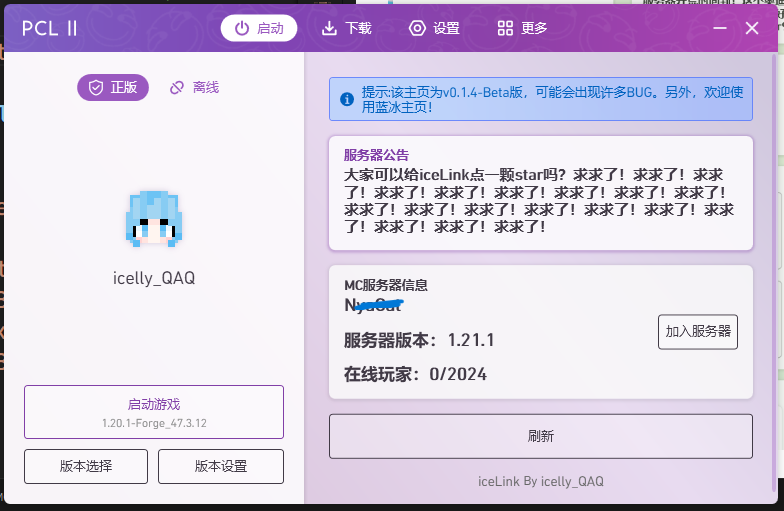
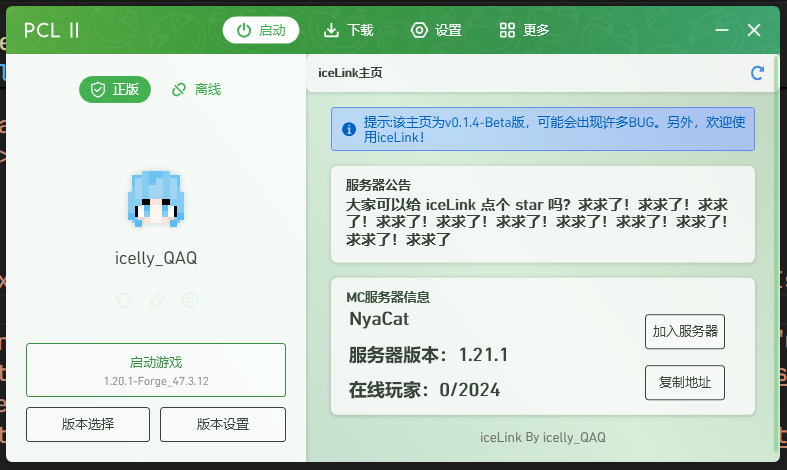
v0.1.5
修改布局

diff --git a/app.js b/app.js
@@ -244,6 +244,52 @@ let serverInfo_xml = '';
         
         // 使用模板字符串构建XML，使用API返回的数据
         const xml = `
+<StackPanel.Resources>
+    <SolidColorBrush x:Key="IconBrush" Color="#4A90E2"/>
+    
+    <Style x:Key="AnimatedPathStyle" TargetType="Path">
+        <Setter Property="RenderTransformOrigin" Value="0.5,0.5"/>
+        <Setter Property="RenderTransform">
+            <Setter.Value>
+                <RotateTransform Angle="0"/>
+            </Setter.Value>
+        </Setter>
+        <Style.Triggers>
+            <EventTrigger RoutedEvent="MouseLeftButtonDown">
+                <BeginStoryboard>
+                    <Storyboard>
+                        <DoubleAnimation 
+                            Storyboard.TargetProperty="(Path.RenderTransform).(RotateTransform.Angle)"
+                            From="0" To="360" Duration="0:0:0.5"/>
+                    </Storyboard>
+                </BeginStoryboard>
+            </EventTrigger>
+        </Style.Triggers>
+    </Style>
+</StackPanel.Resources>
+ 
+<local:MyCard Margin="-25,-25,-25,15">
+    <TextBlock Text="iceLink主页"
+        HorizontalAlignment="Left" 
+        FontSize="12" 
+        Margin="12,12,12,12"
+        FontWeight="Bold"/>
+    <local:MyIconButton 
+        Margin="0,10,15,10" 
+        Width="15" 
+        Height="15" 
+        HorizontalAlignment="Right" 
+        ToolTip="刷新" 
+        EventType="刷新主页">
+        <Path 
+            Stretch="Fill" 
+            Width="13" 
+            Height="15" 
+            Style="{StaticResource AnimatedPathStyle}"
+            Data="M256.455,8 C322.724,8.119 382.892,34.233 427.314,76.685 L463.029,40.97 C478.149,25.851 504,36.559 504,57.941 L504,192 C504,205.255 493.255,216 480,216 L345.941,216 C324.559,216 313.851,190.149 328.97,175.029 L370.72,133.279 C339.856,104.38 299.919,88.372 257.49,88.006 165.092,87.208 87.207,161.983 88.006,257.448 88.764,348.009 162.184,424 256,424 297.127,424 335.997,409.322 366.629,382.444 371.372,378.283 378.535,378.536 382.997,382.997 L422.659,422.659 C427.531,427.531 427.29,435.474 422.177,440.092 378.202,479.813 319.926,504 256,504 119.034,504 8.001,392.967 8,256.002 7.999,119.193 119.646,7.755 256.455,8 Z" 
+            Fill="{StaticResource IconBrush}"/>
+    </local:MyIconButton>
+</local:MyCard>
 <local:MyHint Text="提示:该主页为v0.1.4-Beta版，可能会出现许多BUG。另外，欢迎使用iceLink！" Margin="0,0,0,15" IsWarn="False"/>
 
 ${serverNotice_xml}
@@ -268,6 +314,11 @@ ${serverInfo_xml}
                     FontSize="16" 
                     Margin="15,15,15,0"
                     FontWeight="Bold"/>
+                <TextBlock Text="正在运行数 / 全部实例总数" 
+                    FontSize="10" 
+                    Margin="16,5,5,0"
+                    Foreground="#666666"
+                    FontWeight="Bold"/>
                 <TextBlock 
                     Text="${data.runningInstances}/${data.totalInstances}"
                     FontSize="30"
@@ -284,6 +335,11 @@ ${serverInfo_xml}
                 <TextBlock Text="节点在线数" 
                     FontSize="16" 
                     Margin="15,15,15,0"
+                    FontWeight="Bold"/>
+                <TextBlock Text="在线节点 / 总节点" 
+                    FontSize="10" 
+                    Margin="16,5,5,0"
+                    Foreground="#666666"
                     FontWeight="Bold"/>
                 <TextBlock 
                     Text="${data.running}/${data.total}"
@@ -302,6 +358,11 @@ ${serverInfo_xml}
                     FontSize="16" 
                     Margin="15,15,15,0"
                     FontWeight="Bold"/>
+                <TextBlock Text="面板主机 CPU，RAM 使用率" 
+                    FontSize="10" 
+                    Margin="16,5,5,0"
+                    Foreground="#666666"
+                    FontWeight="Bold"/>
                 <TextBlock 
                     Text="${data.cpuUsage}% ${data.memoryUsage}%"
                     FontSize="30"
@@ -318,6 +379,11 @@ ${serverInfo_xml}
                 <TextBlock Text="面板登录次数" 
                     FontSize="16" 
                     Margin="15,15,15,0"
+                    FontWeight="Bold"/>
+                <TextBlock Text="登录失败次数 : 登录成功次数" 
+                    FontSize="10" 
+                    Margin="16,5,5,0"
+                    Foreground="#666666"
                     FontWeight="Bold"/>
                 <TextBlock 
                     Text="${data.loginFailed}:${data.logined}"
@@ -370,7 +436,7 @@ ${serverInfo_xml}
                     FontWeight="Bold"/>
                 <TextBlock 
                     Text="${data.nodeVersion}"
-                    FontSize="14"
+                    FontSize="15"
                     FontWeight="Bold"
                     HorizontalAlignment="Center"
                     VerticalAlignment="Top"
@@ -381,8 +447,6 @@ ${serverInfo_xml}
 </local:MyCard>
 
 <local:MyHint Text="提示:当存在多个节点时默认显示第一个节点" Margin="0,0,0,15" IsWarn="False"/>
-
-<local:MyButton Text="刷新" Margin="0,0,0,15" EventType="刷新主页" Height="45"/>
 
 <StackPanel Orientation="Horizontal" HorizontalAlignment="Center" Margin="0,0,0,15">
     <local:MyTextButton Text="iceLink" EventType="打开网页" EventData="https://github.com/icelly-QAQ/PCL2-HomePage_iceLink" FontSize="12" Foreground="#666666"/>
@@ -458,28 +522,28 @@ let serverInfo_xml = '';  // 添加这一行：在条件判断前初始化 serve
         <StackPanel Grid.Column="0">
             <TextBlock 
                 Text="${serverConfig.serverName}"
-                FontSize="17"
+                FontSize="18"
                 FontWeight="Bold"
                 HorizontalAlignment="Left"
                 VerticalAlignment="Top"
-                Margin="15,30,0,15"/>  
+                Margin="18,30,0,15"/>  
             <TextBlock 
                 Text="服务器版本：${protocolName}"
-                FontSize="17"
+                FontSize="18"
                 FontWeight="Bold"
                 HorizontalAlignment="Left"
                 VerticalAlignment="Top"
-                Margin="15,0,${marginRight},15"/>
+                Margin="18,0,${marginRight},15"/>
             <TextBlock 
                 Text="在线玩家：${playerCountString}"
-                FontSize="17"
+                FontSize="18"
                 FontWeight="Bold"
                 HorizontalAlignment="Left"
                 VerticalAlignment="Top"
-                Margin="15,0,15,15"/>
+                Margin="18,0,15,15"/>
         </StackPanel>
         
-        <StackPanel Grid.Column="1" VerticalAlignment="Center">
+        <StackPanel Grid.Column="1" VerticalAlignment="Center" Margin="0,22,15,0">
             <local:MyButton 
                 Text="加入服务器" 
                 Margin="0,0,15,8" 
@@ -489,11 +553,11 @@ let serverInfo_xml = '';  // 添加这一行：在条件判断前初始化 serve
                 Height="35" 
                 Width="80"/>
             <local:MyButton 
-                Text="查看详情" 
+                Text="复制地址" 
                 Margin="0,8,15,0" 
-                EventType="打开网页" 
-                EventData="https://mcsrvstat.us/server/${serverConfig.serverIP}" 
-                ToolTip="查看服务器详细信息" 
+                EventType="复制文本" 
+                EventData="${serverConfig.serverIP}" 
+                ToolTip="复制服务器地址" 
                 Height="35" 
                 Width="80"/>
         </StackPanel>
@@ -504,12 +568,56 @@ let serverInfo_xml = '';  // 添加这一行：在条件判断前初始化 serve
         
         // 使用模板字符串构建XML，使用API返回的数据
         const xml = `
-<local:MyHint Text="提示:该主页为v0.1.4-Beta版，可能会出现许多BUG。另外，欢迎使用蓝冰主页！" Margin="0,0,0,15" IsWarn="False"/>
+<StackPanel.Resources>
+    <SolidColorBrush x:Key="IconBrush" Color="#4A90E2"/>
+    
+    <Style x:Key="AnimatedPathStyle" TargetType="Path">
+        <Setter Property="RenderTransformOrigin" Value="0.5,0.5"/>
+        <Setter Property="RenderTransform">
+            <Setter.Value>
+                <RotateTransform Angle="0"/>
+            </Setter.Value>
+        </Setter>
+        <Style.Triggers>
+            <EventTrigger RoutedEvent="MouseLeftButtonDown">
+                <BeginStoryboard>
+                    <Storyboard>
+                        <DoubleAnimation 
+                            Storyboard.TargetProperty="(Path.RenderTransform).(RotateTransform.Angle)"
+                            From="0" To="360" Duration="0:0:0.5"/>
+                    </Storyboard>
+                </BeginStoryboard>
+            </EventTrigger>
+        </Style.Triggers>
+    </Style>
+</StackPanel.Resources>
+ 
+<local:MyCard Margin="-25,-25,-25,15">
+    <TextBlock Text="iceLink主页"
+        HorizontalAlignment="Left" 
+        FontSize="12" 
+        Margin="12,12,12,12"
+        FontWeight="Bold"/>
+    <local:MyIconButton 
+        Margin="0,10,15,10" 
+        Width="15" 
+        Height="15" 
+        HorizontalAlignment="Right" 
+        ToolTip="刷新" 
+        EventType="刷新主页">
+        <Path 
+            Stretch="Fill" 
+            Width="13" 
+            Height="15" 
+            Style="{StaticResource AnimatedPathStyle}"
+            Data="M256.455,8 C322.724,8.119 382.892,34.233 427.314,76.685 L463.029,40.97 C478.149,25.851 504,36.559 504,57.941 L504,192 C504,205.255 493.255,216 480,216 L345.941,216 C324.559,216 313.851,190.149 328.97,175.029 L370.72,133.279 C339.856,104.38 299.919,88.372 257.49,88.006 165.092,87.208 87.207,161.983 88.006,257.448 88.764,348.009 162.184,424 256,424 297.127,424 335.997,409.322 366.629,382.444 371.372,378.283 378.535,378.536 382.997,382.997 L422.659,422.659 C427.531,427.531 427.29,435.474 422.177,440.092 378.202,479.813 319.926,504 256,504 119.034,504 8.001,392.967 8,256.002 7.999,119.193 119.646,7.755 256.455,8 Z" 
+            Fill="{StaticResource IconBrush}"/>
+    </local:MyIconButton>
+</local:MyCard>
+<local:MyHint Text="提示:该主页为v0.1.4-Beta版，可能会出现许多BUG。另外，欢迎使用iceLink！" Margin="0,0,0,15" IsWarn="False"/>
 
 ${serverNotice_xml}
 ${serverInfo_xml}
-
-<local:MyButton Text="刷新" Margin="0,0,0,15" EventType="刷新主页" Height="45"/>
 
 <StackPanel Orientation="Horizontal" HorizontalAlignment="Center" Margin="0,0,0,15">
     <local:MyTextButton Text="iceLink" EventType="打开网页" EventData="https://github.com/icelly-QAQ/PCL2-HomePage_iceLink" FontSize="12" Foreground="#666666"/>

diff --git a/README.md b/README.md
@@ -60,7 +60,8 @@ http://xxx.xxxx.xxx/?admin=[你设置的管理员令牌]     管理端
 该项目的mc服务器状态API使用的是 ***https://api.mcsrvstat.us/*** 如果出现主页响应缓慢可能是 api 的锅 qwq
 
 
-该项目遵守 CC BY-NC-SA 4.0 协议
+该项目使用 CC BY-NC-SA 4.0 协议
 
 
 项目作者 icelly_QAQ
+感谢 YuShanNan 提供的帮助
